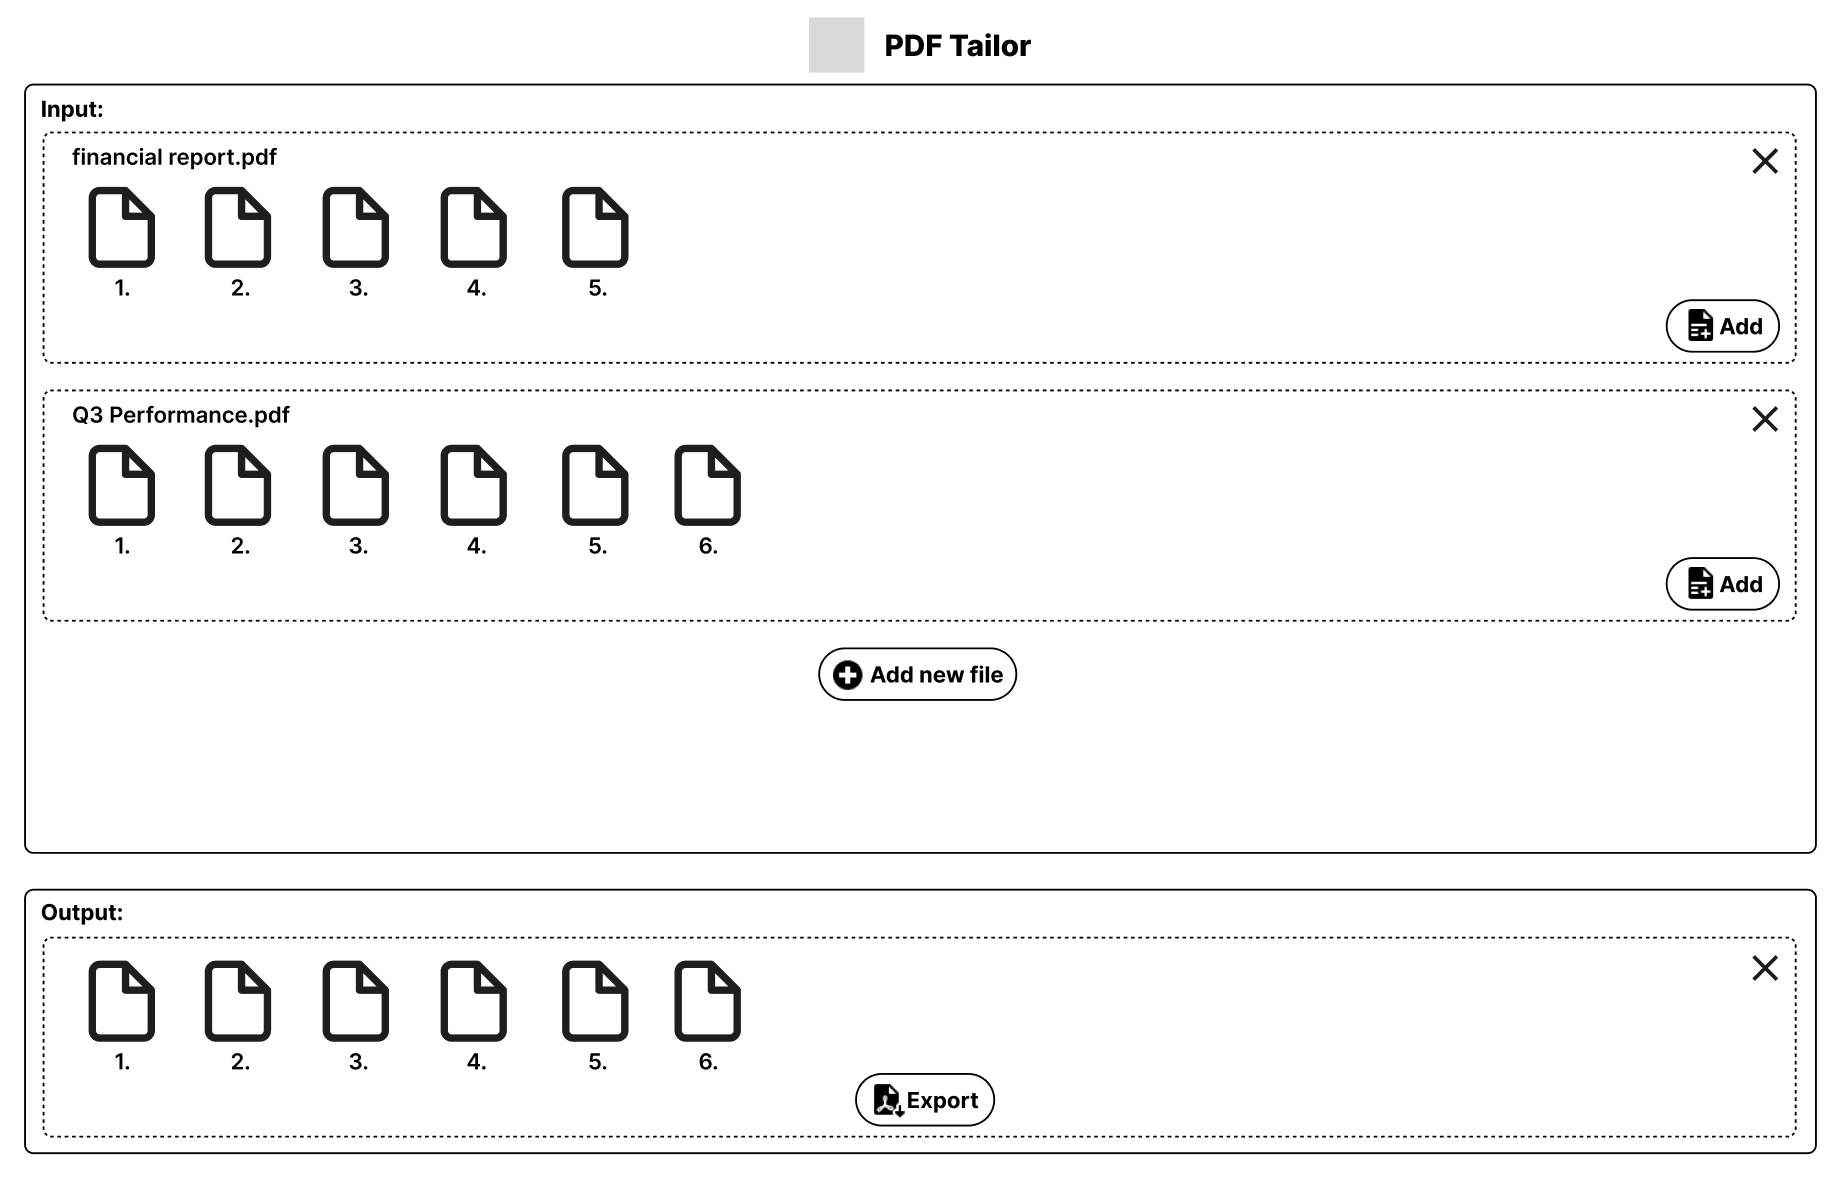
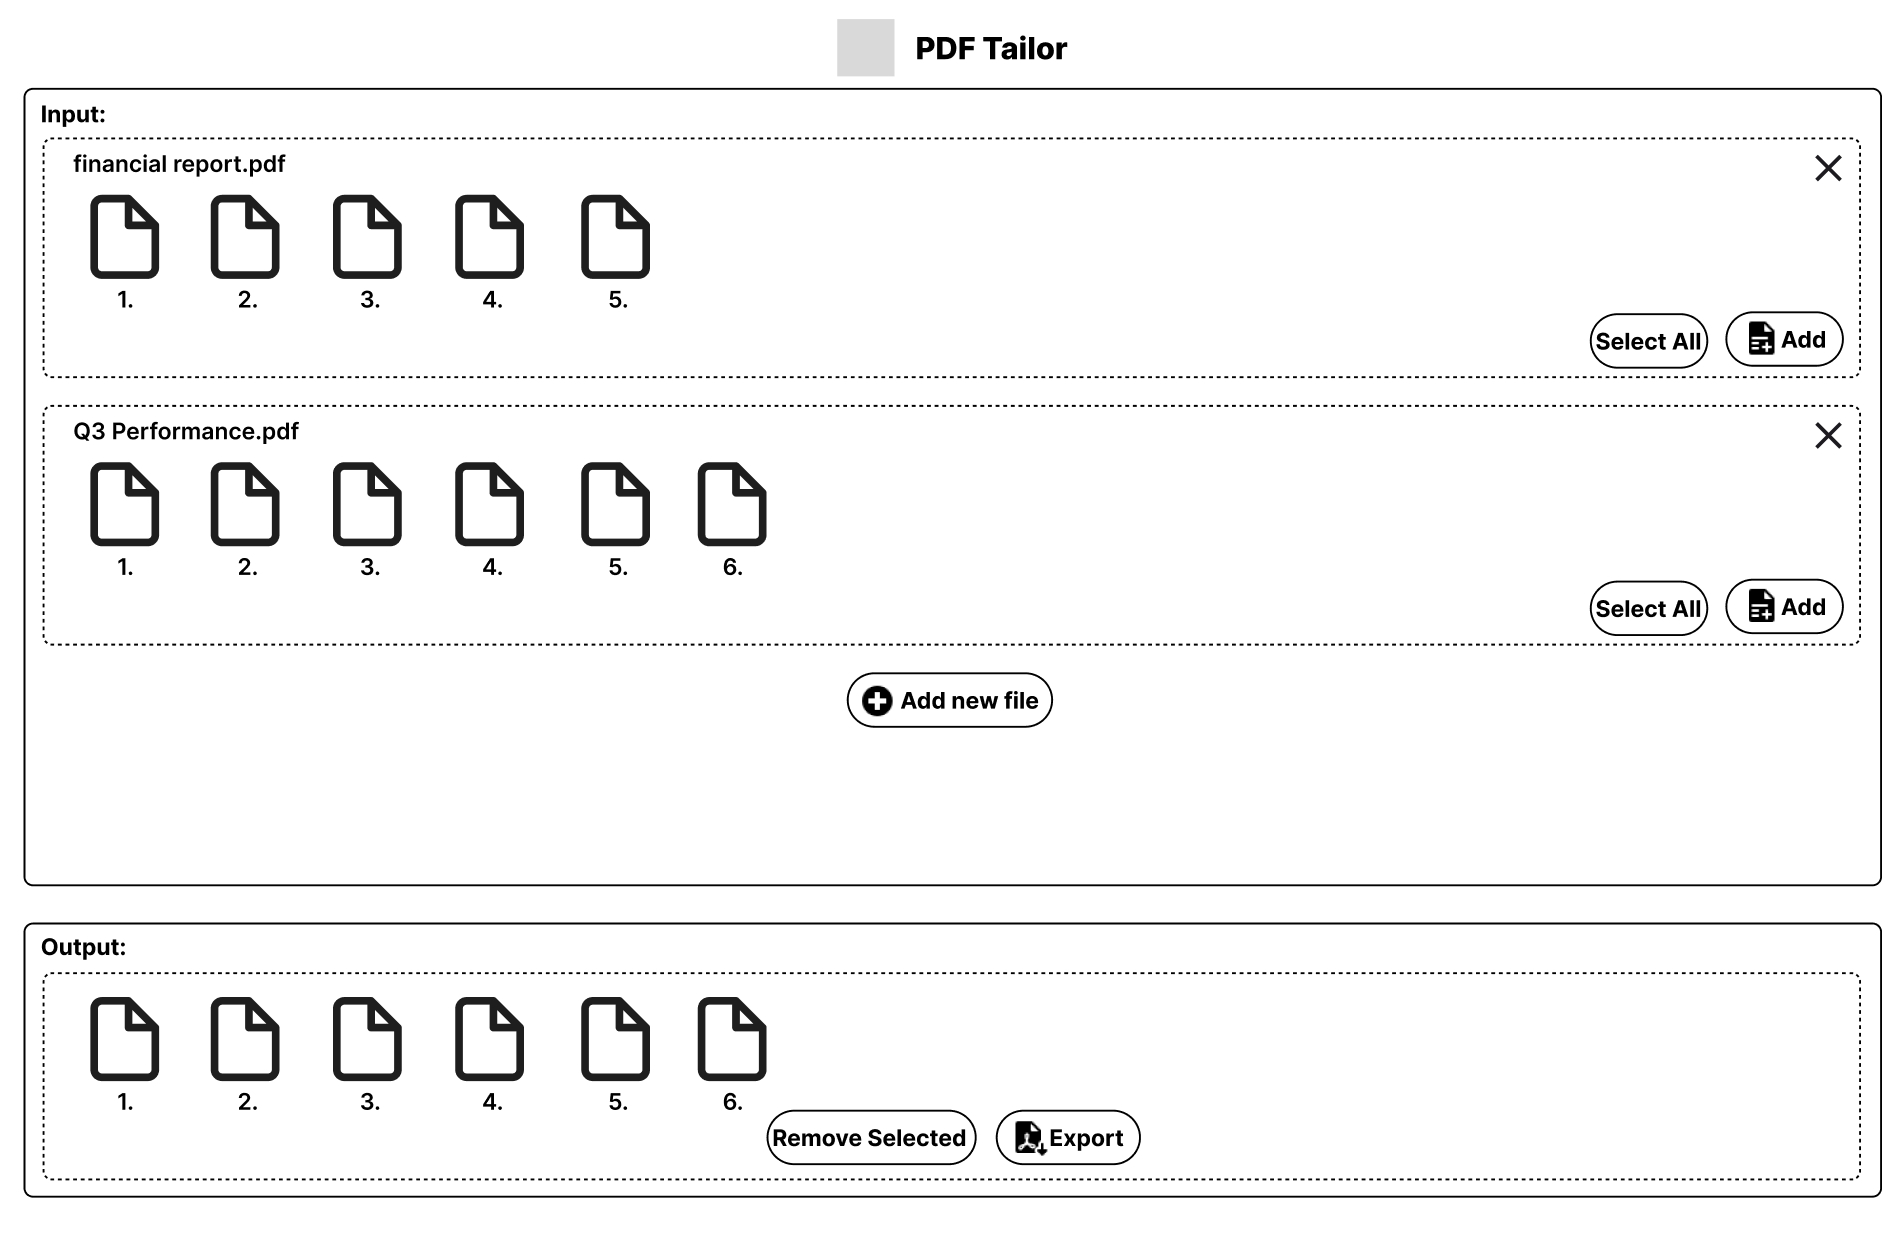
Update Hifi wireFrame

diff --git a/README.md b/README.md
@@ -15,7 +15,10 @@ Your local tailor for merging or combining any pdfs. No more worry about the ske
 - [x] Add more clear notification when the document is exported. 
 - [x] Open the exported pdf after completion
 - [x] Adjust the border color of the PDFPage according to the system color theme
+- [ ] Drug the page in the output section to reorder
 
+## Bug Fix
+- [ ] Remove from page button does not function properly 
 
 ## Edge Cases to Handle:
 - [ ] The exporting pdf trying to over write the existing loaded pdf
@@ -25,15 +28,14 @@ Your local tailor for merging or combining any pdfs. No more worry about the ske
 - [x] Design a logo 
 - [x] Design a Text Logo
 - [x] Add logo to the title
-- [ ] Adjust the logo color based on the selected system theme
-- [ ] Redesign the HiFi wire frame to include all the planed aesthetics improvements 
+- [x] Redesign the HiFi wire frame to include all the planed aesthetics improvements 
 - [ ] Adjust button position for PDFArea
 - [ ] Adjust font family, font size for the whole application
 - [ ] Add icons for buttons
 - [ ] Add hover effect for the PDFPages
 - [ ] Add hover effect for buttons
 - [ ] Adjust the default application size
-
+- [ ] Adjust the logo color based on the selected system theme
 
 ## After Completion:
 - [ ] Research how to publish the app to MS store
